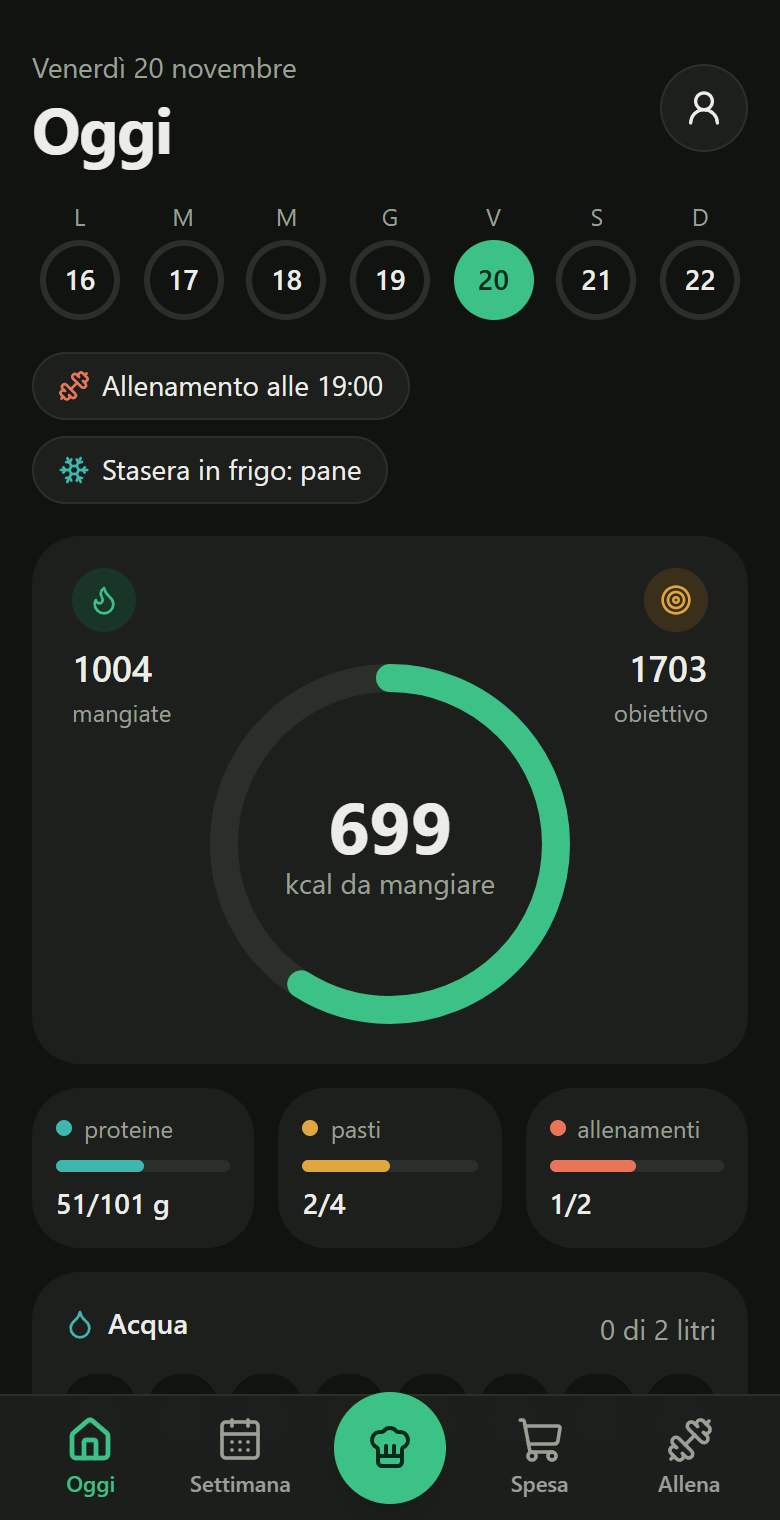
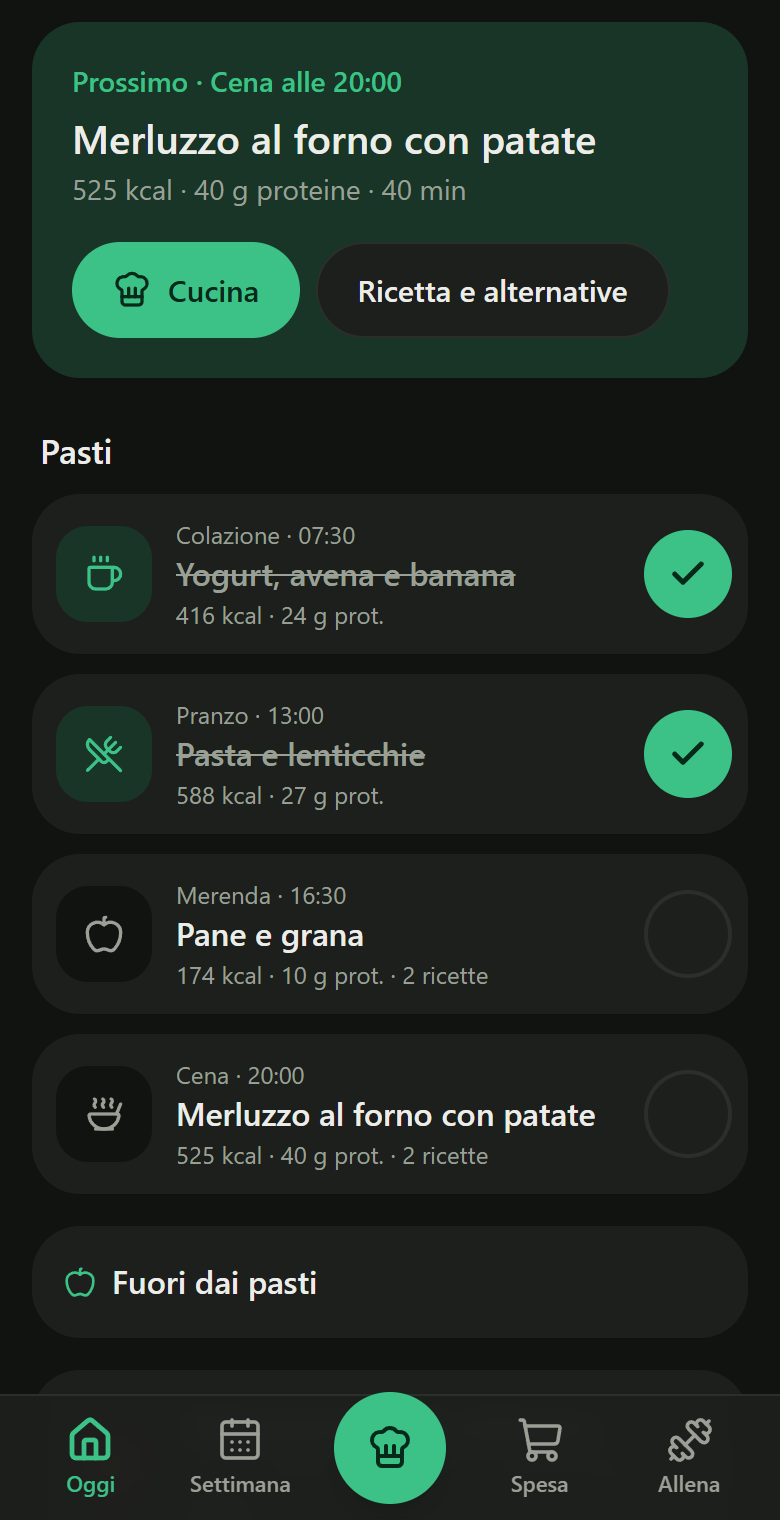
docs: schermate di Oggi e Spesa sui pasti del giorno e sulla lista

diff --git a/README.md b/README.md
@@ -17,10 +17,10 @@ la spesa della settimana e una notifica quando è ora di mettersi ai fornelli.
 
 <br>
 
-<img src="docs/schermate/oggi.png" width="160" alt="Oggi: calorie, proteine, pasti e allenamento del giorno">
+<img src="docs/schermate/oggi.png" width="160" alt="Oggi: il prossimo pasto e i pasti del giorno">
 <img src="docs/schermate/pasto.png" width="160" alt="Pasto: la ricetta proposta, le alternative e cosa non hai">
 <img src="docs/schermate/guida.png" width="160" alt="Guida: un passaggio della ricetta alla volta, con il timer in corso">
-<img src="docs/schermate/spesa.png" width="160" alt="Spesa: cosa comprare per una settimana">
+<img src="docs/schermate/spesa.png" width="160" alt="Spesa: quando fare la prossima spesa e cosa comprare">
 <img src="docs/schermate/allenamento.png" width="160" alt="Allenamento: sedute della settimana e seduta guidata">
 
 <sub>Le schermate usano il piano d'esempio, inventato.</sub>
